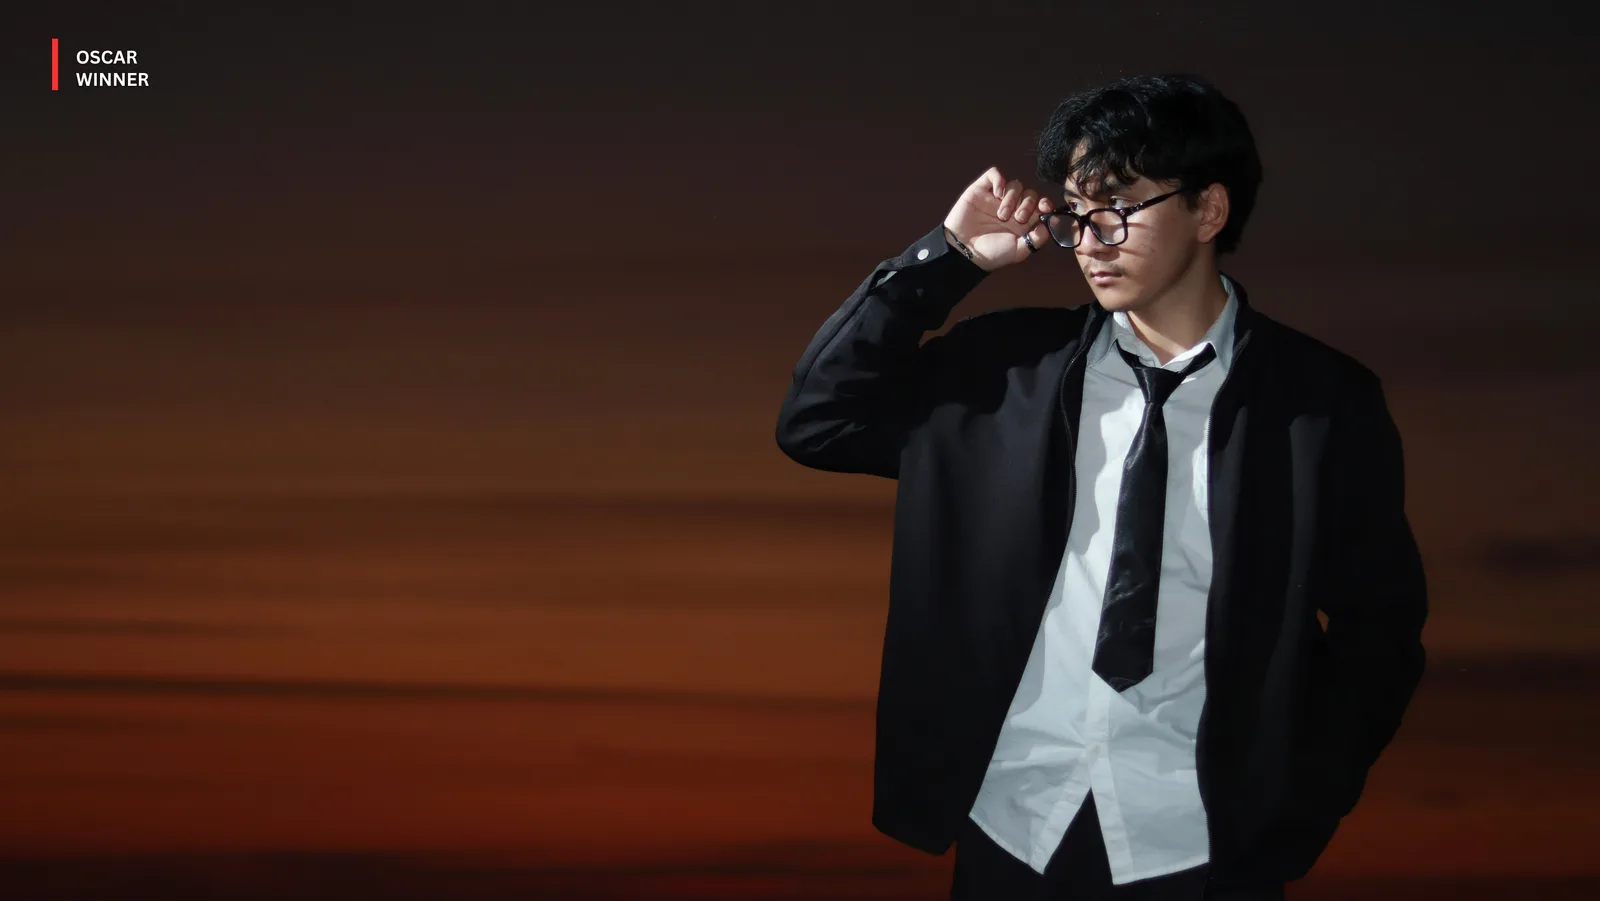
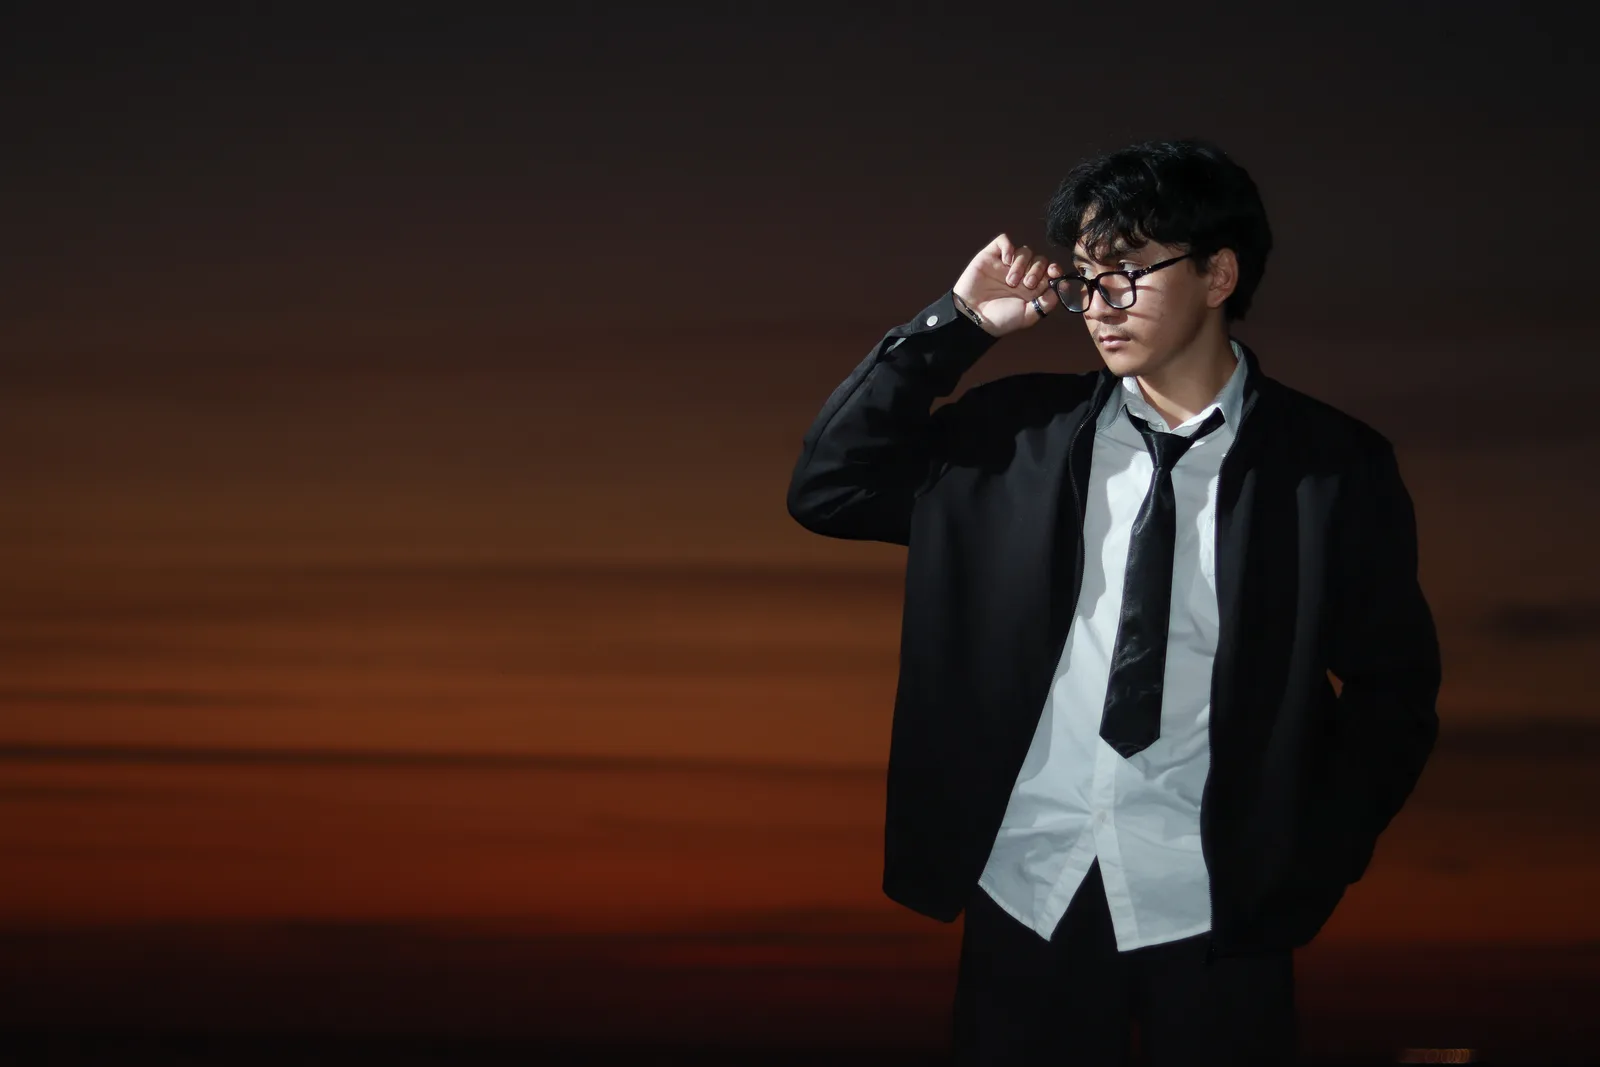
update: hero page

diff --git a/index.html b/index.html
@@ -20,89 +20,132 @@
 
   <style>
     /* Homepage Specific Inline Styles */
+    /* ─── HERO ─── */
     .hero-section {
       position: relative;
       width: 100%;
       min-height: 100vh;
       display: flex;
-      flex-direction: column;
-      justify-content: flex-end;
-      padding-top: calc(var(--navbar-height) + 4rem);
-      padding-bottom: clamp(4rem, 8vw, 8rem);
-      background-color: var(--bg-dark);
+      align-items: center;
       color: var(--text-light);
       overflow: hidden;
     }
 
+    /* Full-screen background photo */
     .hero-bg {
       position: absolute;
-      top: 0;
-      left: 0;
+      inset: 0;
       width: 100%;
       height: 100%;
       object-fit: cover;
-      opacity: 0.65;
-      filter: brightness(0.9);
-      background-color: #2a2825;
-      /* Fallback */
+      /* Person on the right, sunset visible on the left */
+      object-position: right center;
+      display: block;
+      z-index: 0;
     }
 
+    /* Left-to-right gradient scrim for text legibility */
     .hero-scrim {
       position: absolute;
-      top: 0;
-      left: 0;
-      width: 100%;
-      height: 100%;
-      background: linear-gradient(180deg, rgba(26, 26, 24, 0.4) 0%, rgba(26, 26, 24, 0.2) 40%, rgba(26, 26, 24, 0.85) 100%);
+      inset: 0;
       z-index: 1;
+      background:
+        linear-gradient(to right,
+          rgba(15, 10, 8, 0.82) 0%,
+          rgba(15, 10, 8, 0.55) 45%,
+          rgba(15, 10, 8, 0.10) 70%,
+          rgba(15, 10, 8, 0.0) 100%);
+      pointer-events: none;
     }
 
     .hero-content {
       position: relative;
       z-index: 2;
-      max-width: 900px;
+      max-width: 560px;
+      padding-top: calc(var(--navbar-height) + 3rem);
+      padding-bottom: clamp(4rem, 8vw, 8rem);
+      padding-left: clamp(1.5rem, 5vw, 7rem);
+      padding-right: clamp(1.5rem, 4vw, 4rem);
     }
 
     .hero-title {
-      font-size: clamp(2.75rem, 6.5vw, 5.5rem);
+      font-size: clamp(2.2rem, 4.5vw, 4.25rem);
       font-weight: 300;
-      line-height: 1.08;
+      line-height: 1.1;
       margin-bottom: 1.5rem;
     }
 
+    .hero-title .title-main {
+      display: block;
+      color: #E8D3B9;
+      font-style: normal;
+      font-weight: 300;
+    }
+
     .hero-title em {
+      display: block;
       font-style: italic;
       font-weight: 400;
-      color: #E8D3B9;
+      font-size: clamp(1.1rem, 2vw, 1.75rem);
+      margin-top: 0.6rem;
+      line-height: 1.4;
+      background: linear-gradient(135deg, #C9702A 0%, #E8903A 40%, #C05A20 100%);
+      -webkit-background-clip: text;
+      -webkit-text-fill-color: transparent;
+      background-clip: text;
     }
 
     .hero-sub {
-      font-size: clamp(1rem, 1.5vw, 1.25rem);
-      color: rgba(250, 250, 247, 0.85);
-      max-width: 580px;
+      font-size: clamp(0.9rem, 1.3vw, 1.1rem);
+      color: rgba(250, 250, 247, 0.65);
+      max-width: 440px;
       margin-bottom: 2.5rem;
       font-weight: 300;
+      letter-spacing: 0.02em;
     }
 
     .scroll-indicator {
       position: absolute;
       bottom: 2rem;
       right: clamp(1.5rem, 4vw, 4rem);
-      z-index: 2;
+      z-index: 3;
       display: flex;
       align-items: center;
       gap: 0.75rem;
       font-size: 0.75rem;
       letter-spacing: 0.2em;
       text-transform: uppercase;
-      color: rgba(250, 250, 247, 0.6);
+      color: rgba(250, 250, 247, 0.45);
     }
 
     .scroll-indicator::after {
       content: '';
       width: 40px;
       height: 1px;
-      background-color: rgba(250, 250, 247, 0.4);
+      background-color: rgba(250, 250, 247, 0.3);
+    }
+
+    /* ─── RESPONSIVE: mobile portrait ─── */
+    @media (max-width: 640px) {
+      .hero-bg {
+        /* On mobile, shift slightly so person is partially visible on the right */
+        object-position: 75% center;
+      }
+      .hero-scrim {
+        /* Stronger scrim on mobile so text stays legible */
+        background:
+          linear-gradient(to right,
+            rgba(15, 10, 8, 0.88) 0%,
+            rgba(15, 10, 8, 0.65) 55%,
+            rgba(15, 10, 8, 0.15) 80%,
+            rgba(15, 10, 8, 0.0) 100%);
+      }
+      .hero-title {
+        font-size: clamp(1.9rem, 7vw, 2.6rem);
+      }
+      .hero-title em {
+        font-size: clamp(1rem, 4.5vw, 1.4rem);
+      }
     }
 
     /* Selected Works Preview */
@@ -447,22 +490,27 @@
 
     <!-- HERO SECTION -->
     <section class="hero-section">
-      <div class="hero-scrim"></div>
-      <img src="assets/images/graduation/graduation-graduation1-1600.webp"
-        srcset="assets/images/graduation/graduation-graduation1-900.webp 900w, assets/images/graduation/graduation-graduation1-1600.webp 1600w, assets/images/graduation/graduation-graduation1-2560.webp 2560w"
-        sizes="100vw" alt="Silent Memory Photography Hero" class="hero-bg">
 
-      <div class="container hero-content fade-in-section">
-        <span class="sub-title" style="color: #D4B996; margin-bottom: 1rem; display: block;">Visual Storytellers in
-          Manado</span>
-        <h1 class="hero-title">Every moment is worth keeping.<br><em>Eternalizing your memories trough visual
-            aesthetics.</em></h1>
+      <!-- Full-screen background photo -->
+      <img src="assets/images/private-photoshoot/model/private-photoshoot-model-model16-1600.webp"
+        srcset="assets/images/private-photoshoot/model/private-photoshoot-model-model16-900.webp 900w, assets/images/private-photoshoot/model/private-photoshoot-model-model16-1600.webp 1600w, assets/images/private-photoshoot/model/private-photoshoot-model-model16-2560.webp 2560w"
+        sizes="100vw" alt="Silent Memory Photography — Editorial Model Session" class="hero-bg">
+
+      <!-- Left-to-right gradient overlay -->
+      <div class="hero-scrim"></div>
+
+      <!-- Text content overlaid on the left -->
+      <div class="hero-content fade-in-section">
+        <span class="sub-title" style="color: #C9702A; margin-bottom: 1rem; display: block; letter-spacing: 0.18em;">Visual Storytellers in Manado</span>
+        <h1 class="hero-title">
+          <span class="title-main">Every moment<br>is worth keeping.</span>
+          <em>Eternalizing your memories<br>trough visual aesthetics.</em>
+        </h1>
         <p class="hero-sub">Silent Memory Visuals. ~ make everlasting memories</p>
         <div style="display: flex; gap: 1.25rem; flex-wrap: wrap;">
           <a href="gallery.html" class="btn btn-primary" id="hero-cta-gallery">Lihat Portofolio</a>
           <a href="contact.html" class="btn btn-outline"
-            style="color: var(--text-light); border-color: rgba(250,250,247,0.3);" id="hero-cta-contact">Reservasi
-            Sesi</a>
+            style="color: var(--text-light); border-color: rgba(250,250,247,0.3);" id="hero-cta-contact">Reservasi Sesi</a>
         </div>
       </div>
 
